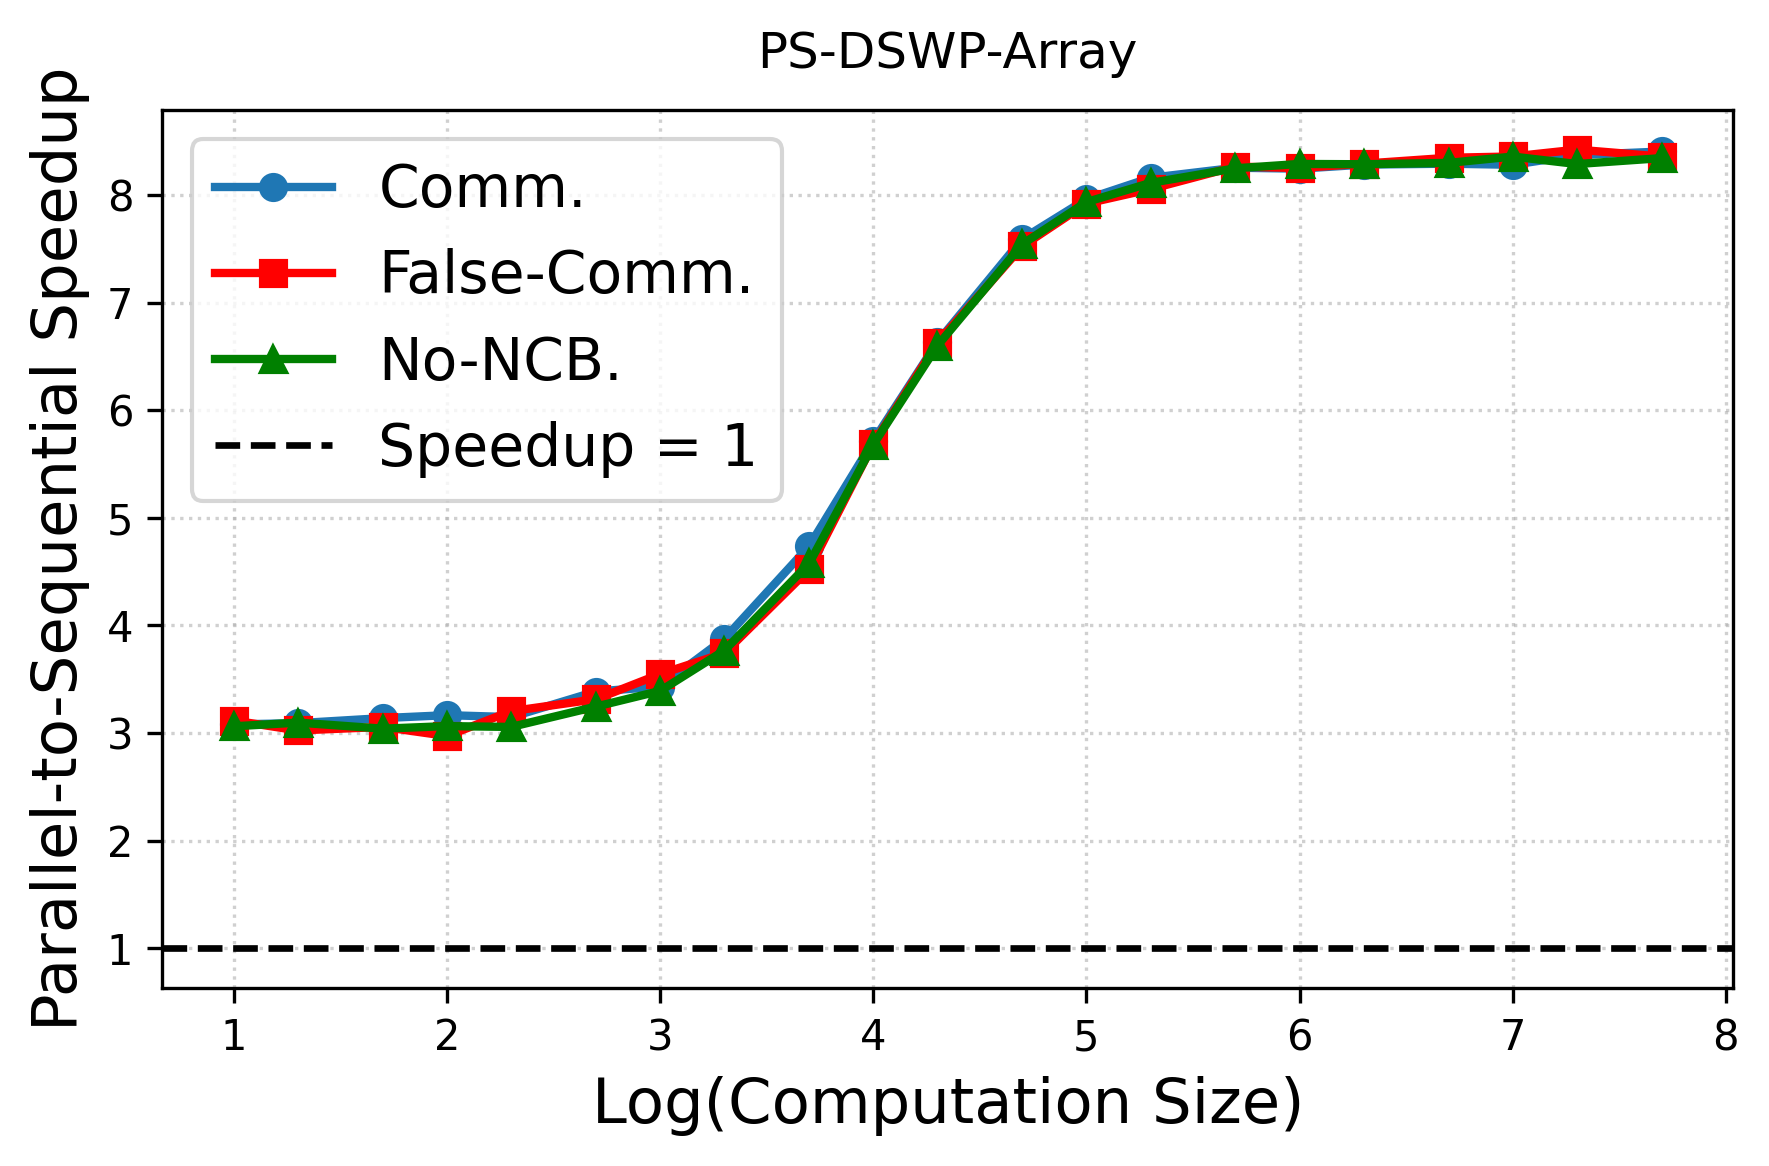
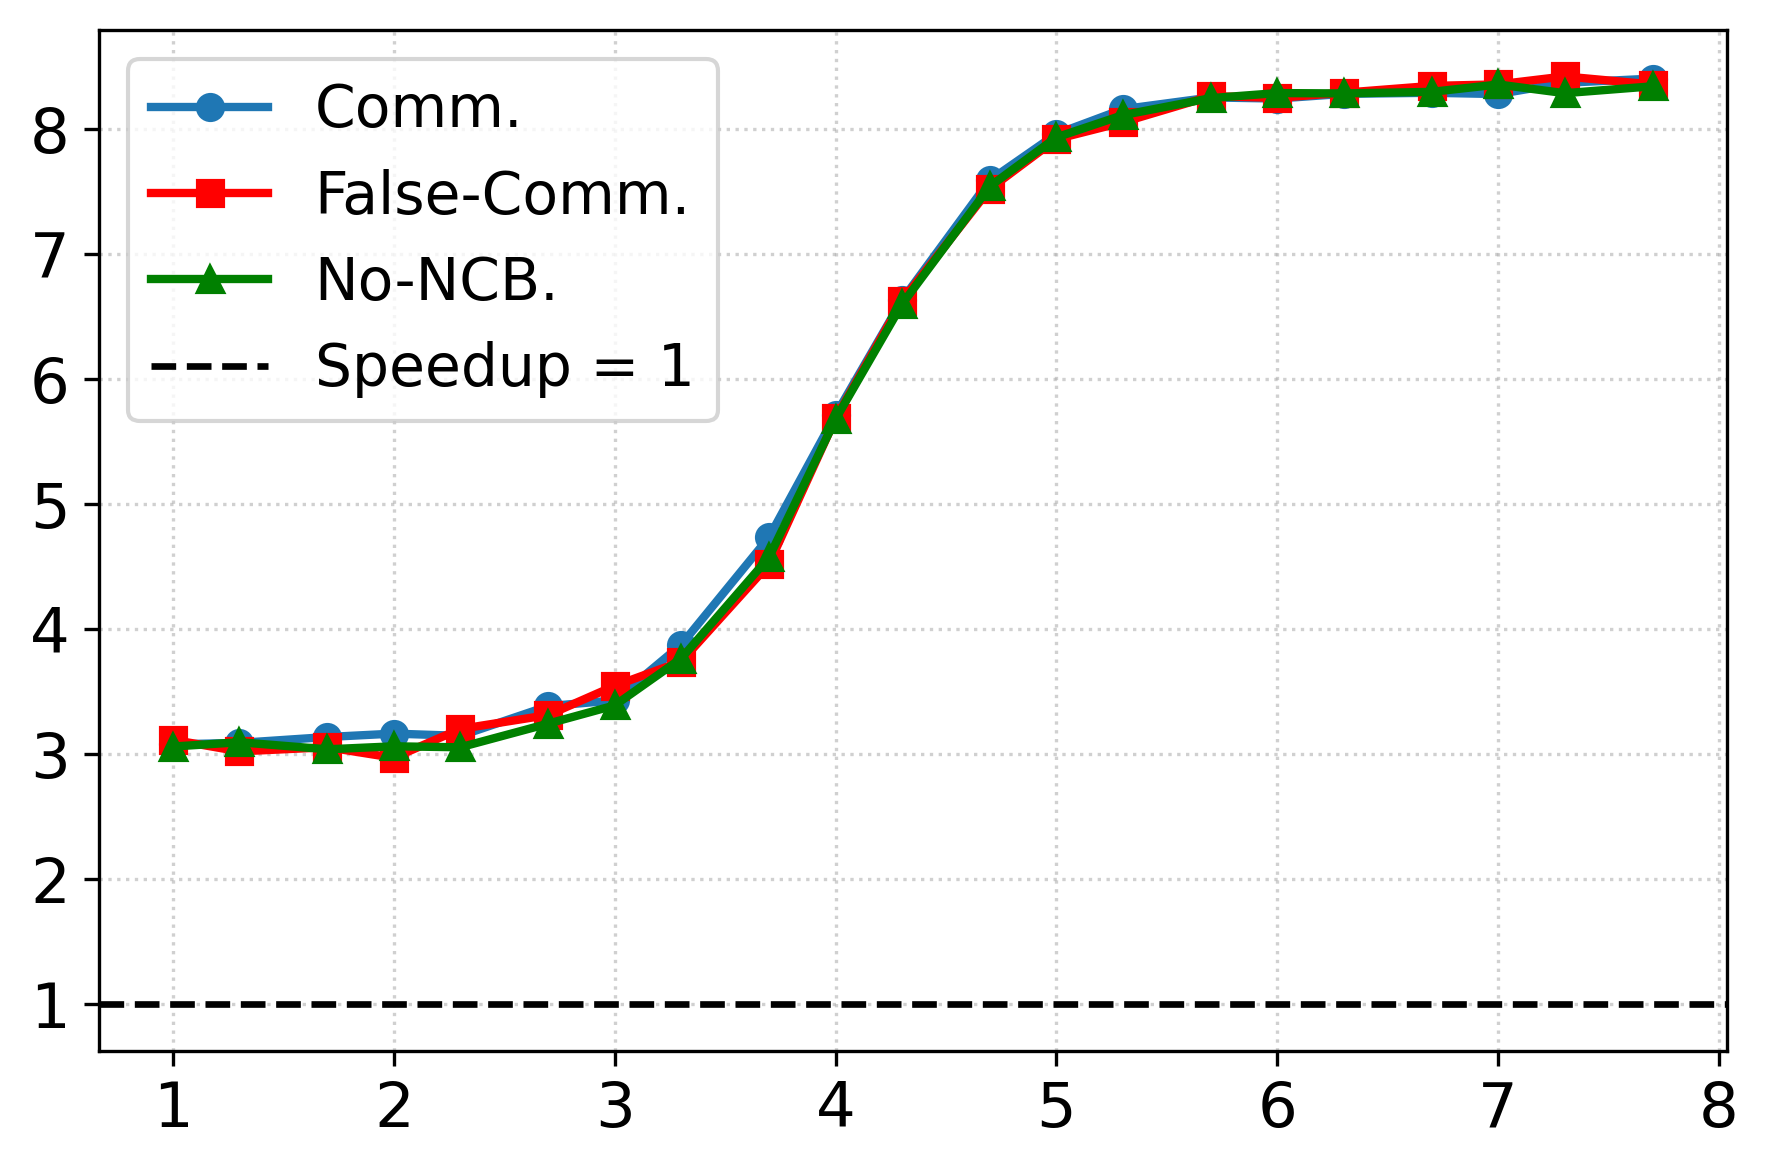
change plots style

diff --git a/reports/speedup_plot_compare.py b/reports/speedup_plot_compare.py
@@ -1,3 +1,5 @@
+# python3 ./speedup_plot_compare.py out-dswp-arran out-dswp-nc out-dswp-noNB out-dswp-comparison-all
+
 import pandas as pd
 import matplotlib.pyplot as plt
 import numpy as np
@@ -29,12 +31,15 @@ def create_comparison_plot(data_commute, data_no_commute, data_no_NB, benchmark,
     plt.axhline(y=1, color='black', linestyle='--', 
                 label='Speedup = 1', linewidth=1.6)
 
-    plt.xlabel('Log(Computation Size)', fontsize=15)
-    plt.ylabel('Parallel-to-Sequential Speedup', fontsize=15)
+    # plt.xlabel('Log(Computation Size)', fontsize=12)
+    # plt.ylabel('Par-to-Seq Speedup', fontsize=12)
+
+    plt.xticks(fontsize=15)
+    plt.yticks(fontsize=15)
     
-    benchmark_name = benchmark.replace('vote-run', 'Vote').title()
-    benchmark_name = benchmark_name.replace('2D-Array', 'PS-DSWP-Array')
-    plt.title(benchmark_name, fontsize=12, pad=10)
+    # benchmark_name = benchmark.replace('vote-run', 'Vote').title()
+    # benchmark_name = benchmark_name.replace('2D-Array', 'PS-DSWP-Array')
+    # plt.title(benchmark_name, fontsize=12, pad=10)
     
     plt.legend(loc='best', fontsize=14)
     plt.grid(True, linestyle=':', alpha=0.6)
